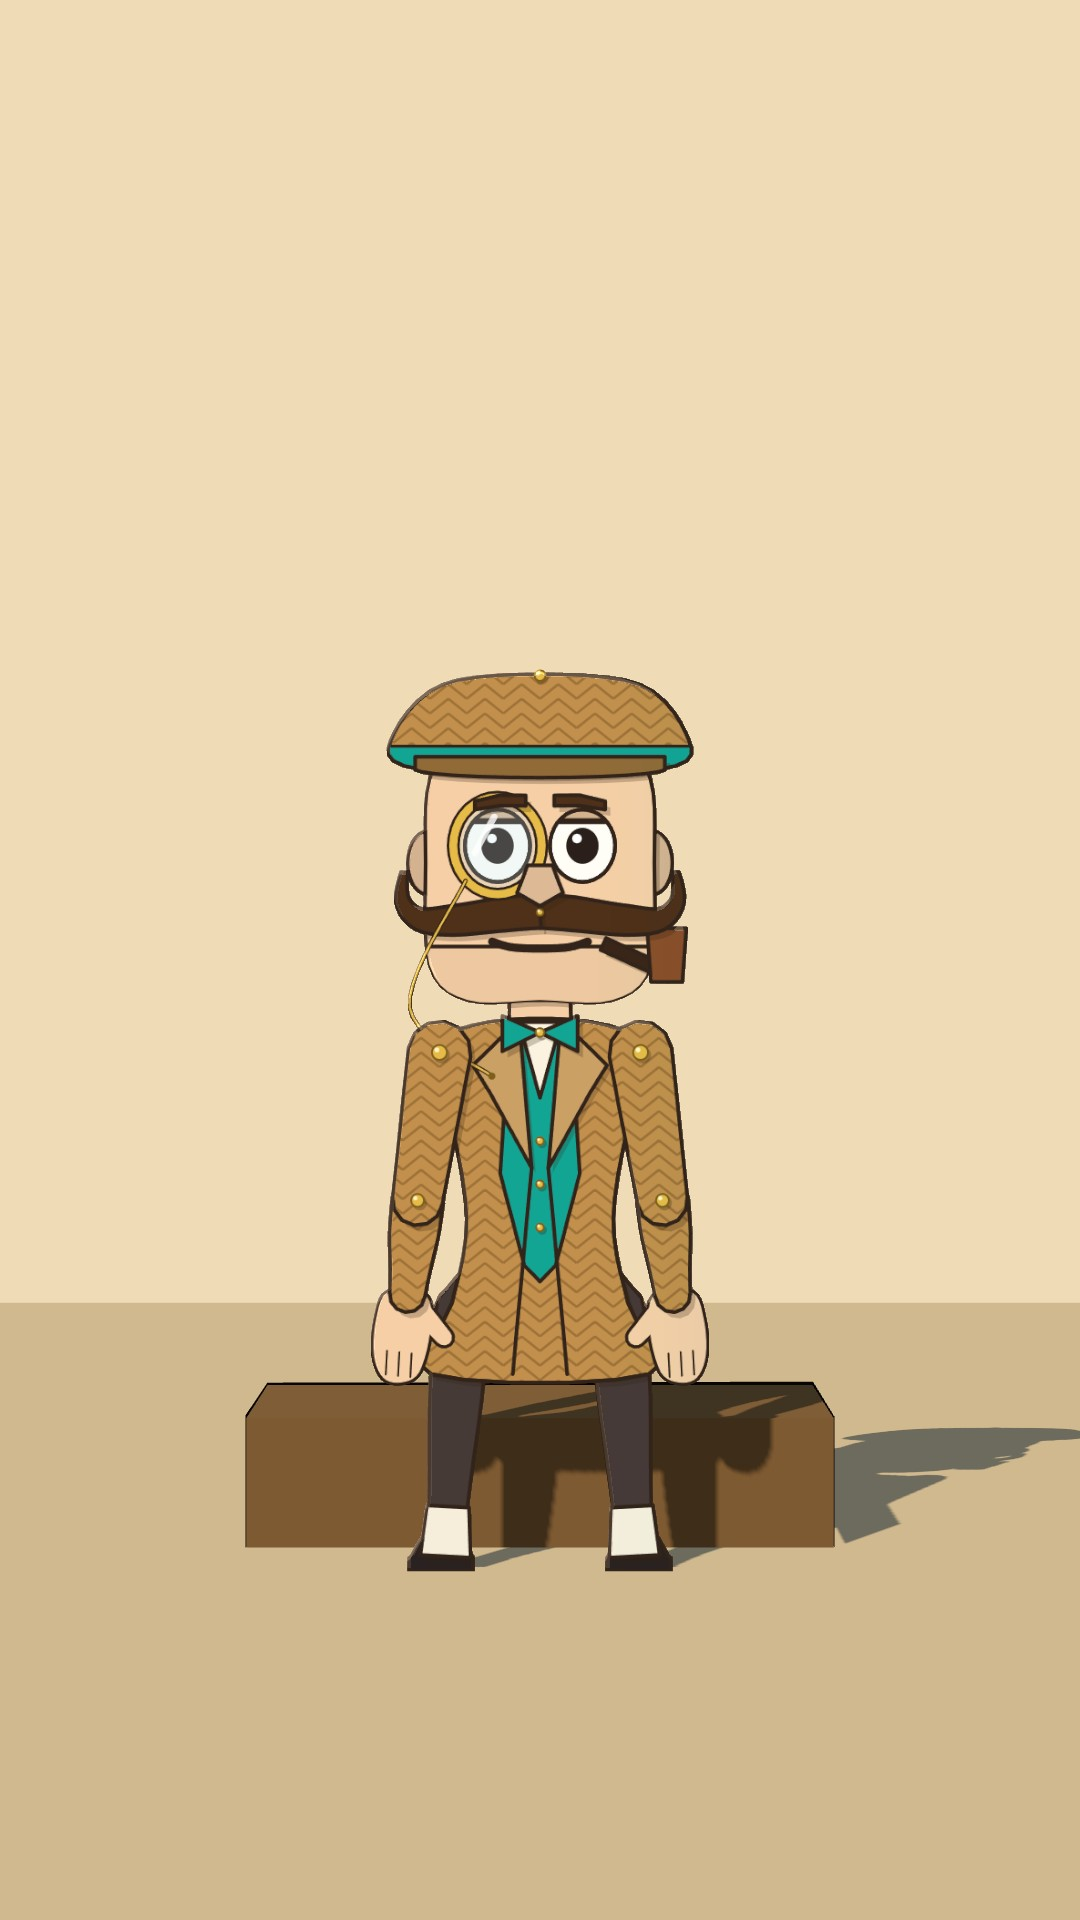
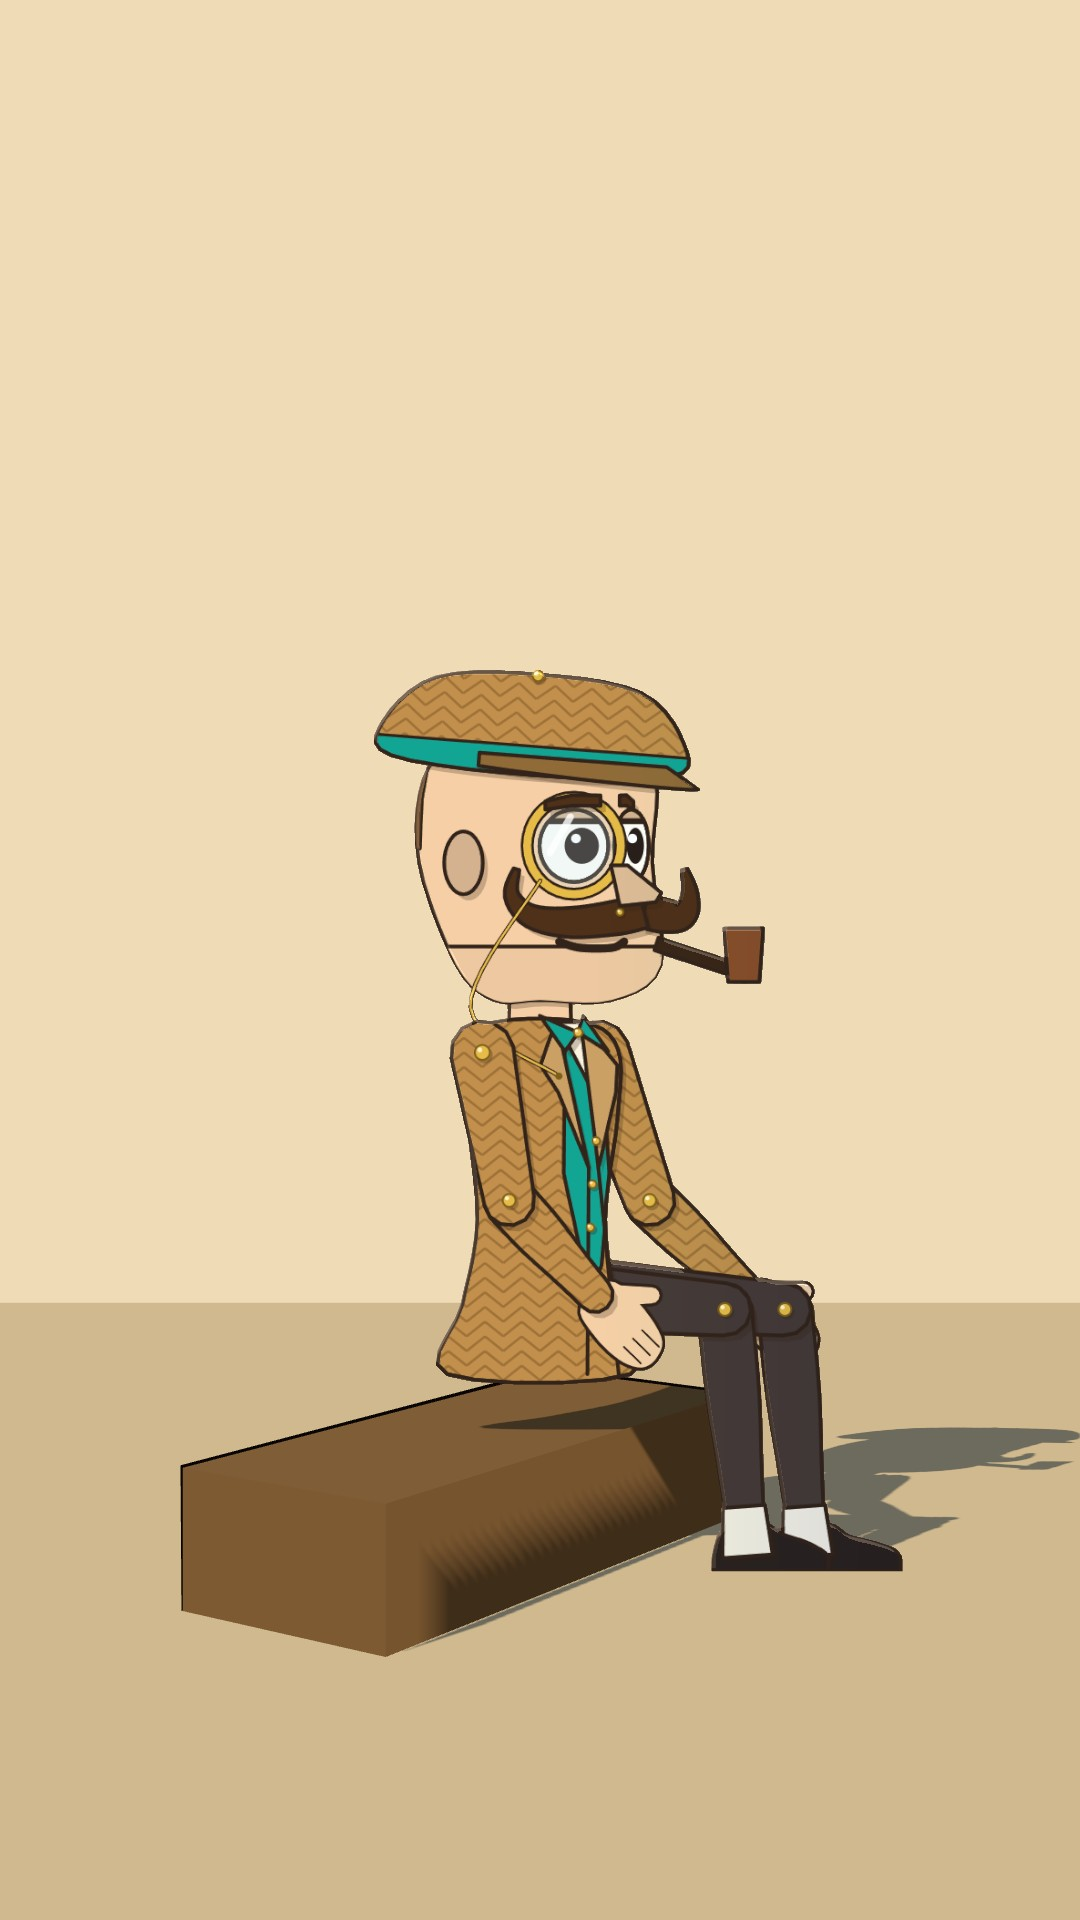
Quality gate 3, the proof, round 2: fault D (sitting in the air beside the seat, what Jesper saw), A rebuilt with the seat right under him, and a control E sitting right that must pass; all four faults stopped, each by its own test, the control clean

Changed region(s): [[0.1528, 0.3438, 0.8861, 0.875], [0.9167, 0.75, 0.9778, 0.7812]]

diff --git a/engine/src/craft/shorts/proofFaults.ts b/engine/src/craft/shorts/proofFaults.ts
@@ -9,21 +9,33 @@ import { POSES } from "../rig";
 import { SIR_D } from "../looks";
 import { mesh, box, skyDome, sunRig } from "../world/kit";
 import { dayLight, DAY } from "./gestureSheet";
+import { SIT } from "./gripSheet";
 
 const world = () => { const g = new THREE.Group();
   g.add(mesh(box(30, 0.1, 30), "#c9b48e", { at: [0, -0.05, 0] }), mesh(box(30, 4, 0.2), "#e7dcc4", { at: [0, 2, -3], line: 0 }), skyDome("#7fb6ec", "#cfe6fb"));
   const rig = sunRig(DAY, [0, 0, 0]); g.add(rig); g.userData.rig = rig; return g; };
 const V = lens(0, 1.0, 3.7, 0, -1, 0, 46), LEN = 2, shots: Shot[] = [];
-const sir = (pose: Partial<typeof POSES.stand>, at: [number, number, number] = [0, 0, 0]): Actor => ({ name: "sir", D: SIR_D, h: 1.75, at, heading: V.toward(at[0], at[2], 0), pose: { ...POSES.stand, ...pose }, o: { handL: "relaxed", handR: "relaxed" } });
+const sir = (pose: Partial<typeof POSES.stand>, turn = 0): Actor => ({ name: "sir", D: SIR_D, h: 1.75, at: [0, 0, 0], heading: V.toward(0, 0, turn), pose: { ...POSES.stand, ...pose }, o: { handL: "relaxed", handR: "relaxed" } });
+// the seated faults are seen from three quarters (55 degrees), where a seated card's thighs lie along the seat: seen from the front its
+// shins hang straight down under its hips, and no seat can be under the hips without the shins inside it (the review, 19 Nov)
+const TURN = 55, FW: [number, number] = [Math.sin((V.toward(0, 0, TURN) * Math.PI) / 180), Math.cos((V.toward(0, 0, TURN) * Math.PI) / 180)];
+/** a seat `high` metres high and 0.4 m deep, its centre `back` metres behind his hips, turned with him. (A still figure stands with its
+ *  feet on the floor: sitting, his hips are where his legs put them, about 0.46 m up) */
+const seat = (back: number, high = 0.42) => (g: THREE.Group) => { const m = mesh(box(1.0, high, 0.4), "#7a5a36", { at: [0, high / 2, 0] }), h = new THREE.Group(); h.add(m); h.position.set(-FW[0] * back, 0, -FW[1] * back); h.rotation.y = (V.toward(0, 0, TURN) * Math.PI) / 180; g.add(h); };
 const add = (id: string, cast: Actor, things?: (g: THREE.Group) => void) => { const a = shots.length * LEN;
   shots.push({ id, a, b: a + LEN, still: 1, cam: () => V.cam, sun: { target: [0, 0.8, 0], reach: 5 }, cast: () => [cast], things: things ? (g) => things(g) : undefined }); };
 
-// A. sitting in the air: a seated man whose hips are about 0.35 m above a low bench under him (the animal trials' gallery bench)
-add("A-sits-in-the-air", sir({ py: -0.36, legL: { th: [86, 6], sh: [4, 4] }, legR: { th: [86, 6], sh: [4, 4] }, armL: [[18, 8], [50, 4]], armR: [[18, 8], [50, 4]] }),
-  (g) => g.add(mesh(box(1.0, 0.22, 0.3), "#7a5a36", { at: [0, 0.11, -0.3] })));
+// A. sitting in the air ABOVE a seat: a low seat (0.22 m) right under his hips, its front edge 8 cm before them: his hips 24 cm above it
+add("A-sits-in-the-air", sir({ ...SIT, armL: [[18, 8], [50, 4]], armR: [[18, 8], [50, 4]] }, TURN), seat(0.12, 0.22));
 // B. an arm locked straight out at shoulder height, held the whole shot (two seconds): no pointing hand
 add("B-arm-locked-straight-out", sir({ armR: [[0, 90], [0, 90]] }));
 // C. a foot inside a sofa: he stands with his left foot in the sofa's seat block
 add("C-foot-inside-a-sofa", sir({}), (g) => { g.add(mesh(box(1.4, 0.42, 0.8), "#4a6ea8", { at: [0.75, 0.21, -0.1] }), mesh(box(1.4, 0.5, 0.2), "#3e5f93", { at: [0.75, 0.67, -0.42] })); });
+
+// D. sitting in the air BESIDE a seat (what Jesper saw in the animal trials): sitting height, but the seat's front edge 10 cm behind his hips
+add("D-sits-beside-the-seat", sir({ ...SIT, armL: [[18, 8], [50, 4]], armR: [[18, 8], [50, 4]] }, TURN), seat(0.3));
+// E. THE CONTROL, no fault: he sits right, on a seat 0.36 m high reaching from 10 cm before his hips to 30 cm behind them. The checks
+// must pass it: a check that fails every seated man proves nothing
+add("E-control-sits-right", sir({ ...SIT, armL: [[18, 8], [50, 4]], armR: [[18, 8], [50, 4]] }, TURN), seat(0.1, 0.36));
 
 export const PROOF_FAULTS: Film = { id: "proof-faults", fps: 30, seconds: shots.length * LEN, range: [0, 999], sky: "#9cc8f0", world, shots, words: [], hook: { text: [], a: 0, b: 0 }, light: dayLight(DAY.from, [0, 1, 0]) };

diff --git a/granskning/kvalitetsport/bevis/rapport.md b/granskning/kvalitetsport/bevis/rapport.md
@@ -1,15 +1,20 @@
-# Kvalitetsporten, port 3: beviset (byggsessionen, 19 november)
+# Kvalitetsporten, port 3: beviset, omgång 2 (byggsessionen, 19 november)
 
 Jesper: "gör med flit tre fel (en figur som sitter i luften ovanför en bänk, en arm rakt ut, en fot inne i en soffa) och visa att kontrollerna stoppar alla tre."
 
-**Testfilmen:**
-- Den heter `proof-faults` (engine/src/craft/shorts/proofFaults.ts, kompositionen ProofFaults). Ingen riktig film är rörd.
-- Den har tre bilder om 2 s, och varje bild har ett fel gjort med flit:
-  - **A:** Sir sitter med höften 24 cm ovanför en låg bänk under honom. Sittande ska det vara 8–12 cm.
-  - **B:** Sirs högra arm hålls rakt ut i axelhöjd, med armbågen låst i två sekunder. Handen pekar inte.
-  - **C:** Sir står med vänster fot inne i en soffas sits.
+Granskningen lade till ett fjärde fel: **D**, en figur som sitter i luften *bredvid* sitsen. Det var det Jesper såg i djurrättegångarna.
 
-**Kontrollen:** `node scripts/film_info.mjs proof-faults body` körs på varje ruta. Den UNDERKÄNNER filmen, och varje fel stoppas med ruta, figur och test:
+**Testfilmen:**
+- Den heter `proof-faults` (engine/src/craft/shorts/proofFaults.ts). Ingen riktig film är rörd.
+- Den har fem bilder om 2 s:
+  - **A:** Sir sitter med höften 24 cm ovanför en låg sits (0,22 m) som står rakt under honom.
+  - **B:** Sirs högra arm hålls rakt ut i axelhöjd med låst armbåge i 2 s.
+  - **C:** Sir står med vänster fot inne i en soffas sits.
+  - **D:** Sir sitter i sitthöjd, men sitsens framkant är 10 cm bakom hans höfter, så han sitter i luften framför den. Det är samma fel som Sir hade i djurrättegångarna, där det var 8 cm.
+  - **E, kontrollen:** Sir sitter rätt, på en sits som är 0,36 m hög. Den här bilden måste gå igenom utan fel. En kontroll som underkänner alla sittande bevisar ingenting.
+- A, D och E visas snett från sidan (55 grader). Ett sittande kort sett rakt framifrån har underbenen rakt ned under höften. Där kan ingen sits ligga under höften utan att underbenen hamnar i den.
+
+**Kontrollen:** `node scripts/film_info.mjs proof-faults body` körs på varje ruta. Den UNDERKÄNNER filmen:
 
 ```
 A-sits-in-the-air frames 0-59 (film 0.00-2.00 s): sir: he sits in the air: his hips are 24 cm above the seat under him (sitting, 8-12 cm)
@@ -19,20 +24,34 @@ C-foot-inside-a-sofa frames 120-179 (film 4.00-6.00 s): a box (1.40 x 0.42 x 0.8
 C-foot-inside-a-sofa frames 120-179 (film 4.00-6.00 s): sir's left thigh is inside a box (1.40 x 0.42 x 0.80 m at 0.75, 0.21, -0.10), 5 cm
 C-foot-inside-a-sofa frames 120-179 (film 4.00-6.00 s): sir's left shin is inside a box (1.40 x 0.42 x 0.80 m at 0.75, 0.21, -0.10), 11 cm
 C-foot-inside-a-sofa frames 120-179 (film 4.00-6.00 s): sir's left foot is inside a box (1.40 x 0.42 x 0.80 m at 0.75, 0.21, -0.10), 3 cm
-BODY CHECK FAILED for proof-faults: 180 frames of 180, 180 figure-frames, 120 pairs tried (a figure against a solid, a held thing or another figure), 7 faults (0 s)
+D-sits-beside-the-seat frames 180-239 (film 6.00-8.00 s): sir: he is as low as one who sits or squats (hips at 55 % of standing) with nothing under him: he sits off the seat's edge, the seat begins 16 cm behind his hips, no knee or hand on the ground
+BODY CHECK FAILED for proof-faults: 300 frames of 300, 300 figure-frames, 240 pairs tried (a figure against a solid, a held thing or another figure), 8 faults (0 s)
 ```
 
 **Varje fel och testet som stoppar det:**
 
 | Fel | Rutor | Figur | Test som stoppar |
 |---|---|---|---|
-| A, sitter i luften ovanför bänken | 0–59 | sir | Stödtestet (bodyCheck.ts "hover"): höften mer än 20 cm över sitsen under honom. Lades till den 19 november efter Jespers fynd i djurrättegångarna. |
-| B, arm låst rakt ut | 60–119 | sir | Rak arm i axelhöjd längre än 0,5 s, plus låst armbåge med lyft arm längre än 0,5 s. |
-| C, fot inne i soffan | 120–179 | sir | Kropp i fast föremål: foten, smalbenet och låret inne i soffans sits. Dessutom testet för förgrund: soffan skär benet i bilden. |
+| A, sitter i luften ovanför sitsen | 0–59 | sir | Sittkontrollen (hover): höften mer än 20 cm över sitsen under honom. |
+| B, arm låst rakt ut | 60–119 | sir | Rak arm i axelhöjd mer än 0,5 s, och låst armbåge med lyft arm mer än 0,5 s. |
+| C, fot inne i soffan | 120–179 | sir | Kropp i fast föremål (foten, smalbenet och låret), och förgrundstestet. |
+| D, sitter i luften bredvid sitsen | 180–239 | sir | Stödtestet: ingenting under höften, och sitsen börjar först 16 cm bakom. |
+| E, kontrollen, sitter rätt | 240–299 | sir | Ingen rad. Den går igenom, som den ska. |
 
-**I djurrättegångarna v1c:**
-- Stödtestet fångar gubben på åhörarbänken ("nothing under him", 3,67–5,53 s och 12,40–13,83 s), men inte Sir bredvid honom.
-- Jesper skrev att figurerna satt i luften *bredvid* bänken. Det utreds innan sittande prövas som bildtyp i bildbiblioteket (port 2).
-- Ett test som missar Sir rättas där, och beviset görs om.
+**Rättelsen som behövdes för D:**
+- I första omgången godtog stödtestet en sits som låg 8–16 cm bakom höftleden. Det lades till för att hitta sittande på bänkar.
+- Därför gick Sir i djurrättegångarna igenom.
+- Nu måste sitsen nå in under höftleden, eller som mest 4 cm bakom den. En sits som bara finns längre bak rapporteras med hur långt bakom den börjar.
+- Rättelsen är commit 90848ae.
+- Den rättade kontrollen hittar nu följande i djurrättegångarna v1c:
+  - Sir: yes 3,67–5,53 s, get 12,40–13,83 s och who 42,17–43,57 s, alla med 8 cm.
+  - Gubben: 24 cm.
+- Den hittade också gladiatorn som åt i gladiatorerna v5, med 16 cm. Han står nu bredvid blocket.
+- Den hittade också gestbladets "sitta" framifrån, med 8 cm. Därför är sitta nu bara tillåtet snett från sidan eller i profil.
 
-**Stillbilderna** i full storlek ligger i samma mapp: `A-sitter-i-luften-ovanfor-banken-ruta-30.jpg`, `B-arm-last-rakt-ut-ruta-90.jpg` och `C-fot-inne-i-soffan-ruta-150.jpg`.
+**Stillbilderna** är i full storlek, 1080x1920, och ligger i samma mapp:
+- A-sitter-i-luften-ovanfor-banken-ruta-30.jpg (ny, snett från sidan);
+- B-arm-last-rakt-ut-ruta-90.jpg;
+- C-fot-inne-i-soffan-ruta-150.jpg;
+- D-sitter-i-luften-bredvid-sitsen-ruta-210.jpg;
+- E-kontroll-sitter-ratt-ruta-270.jpg.
